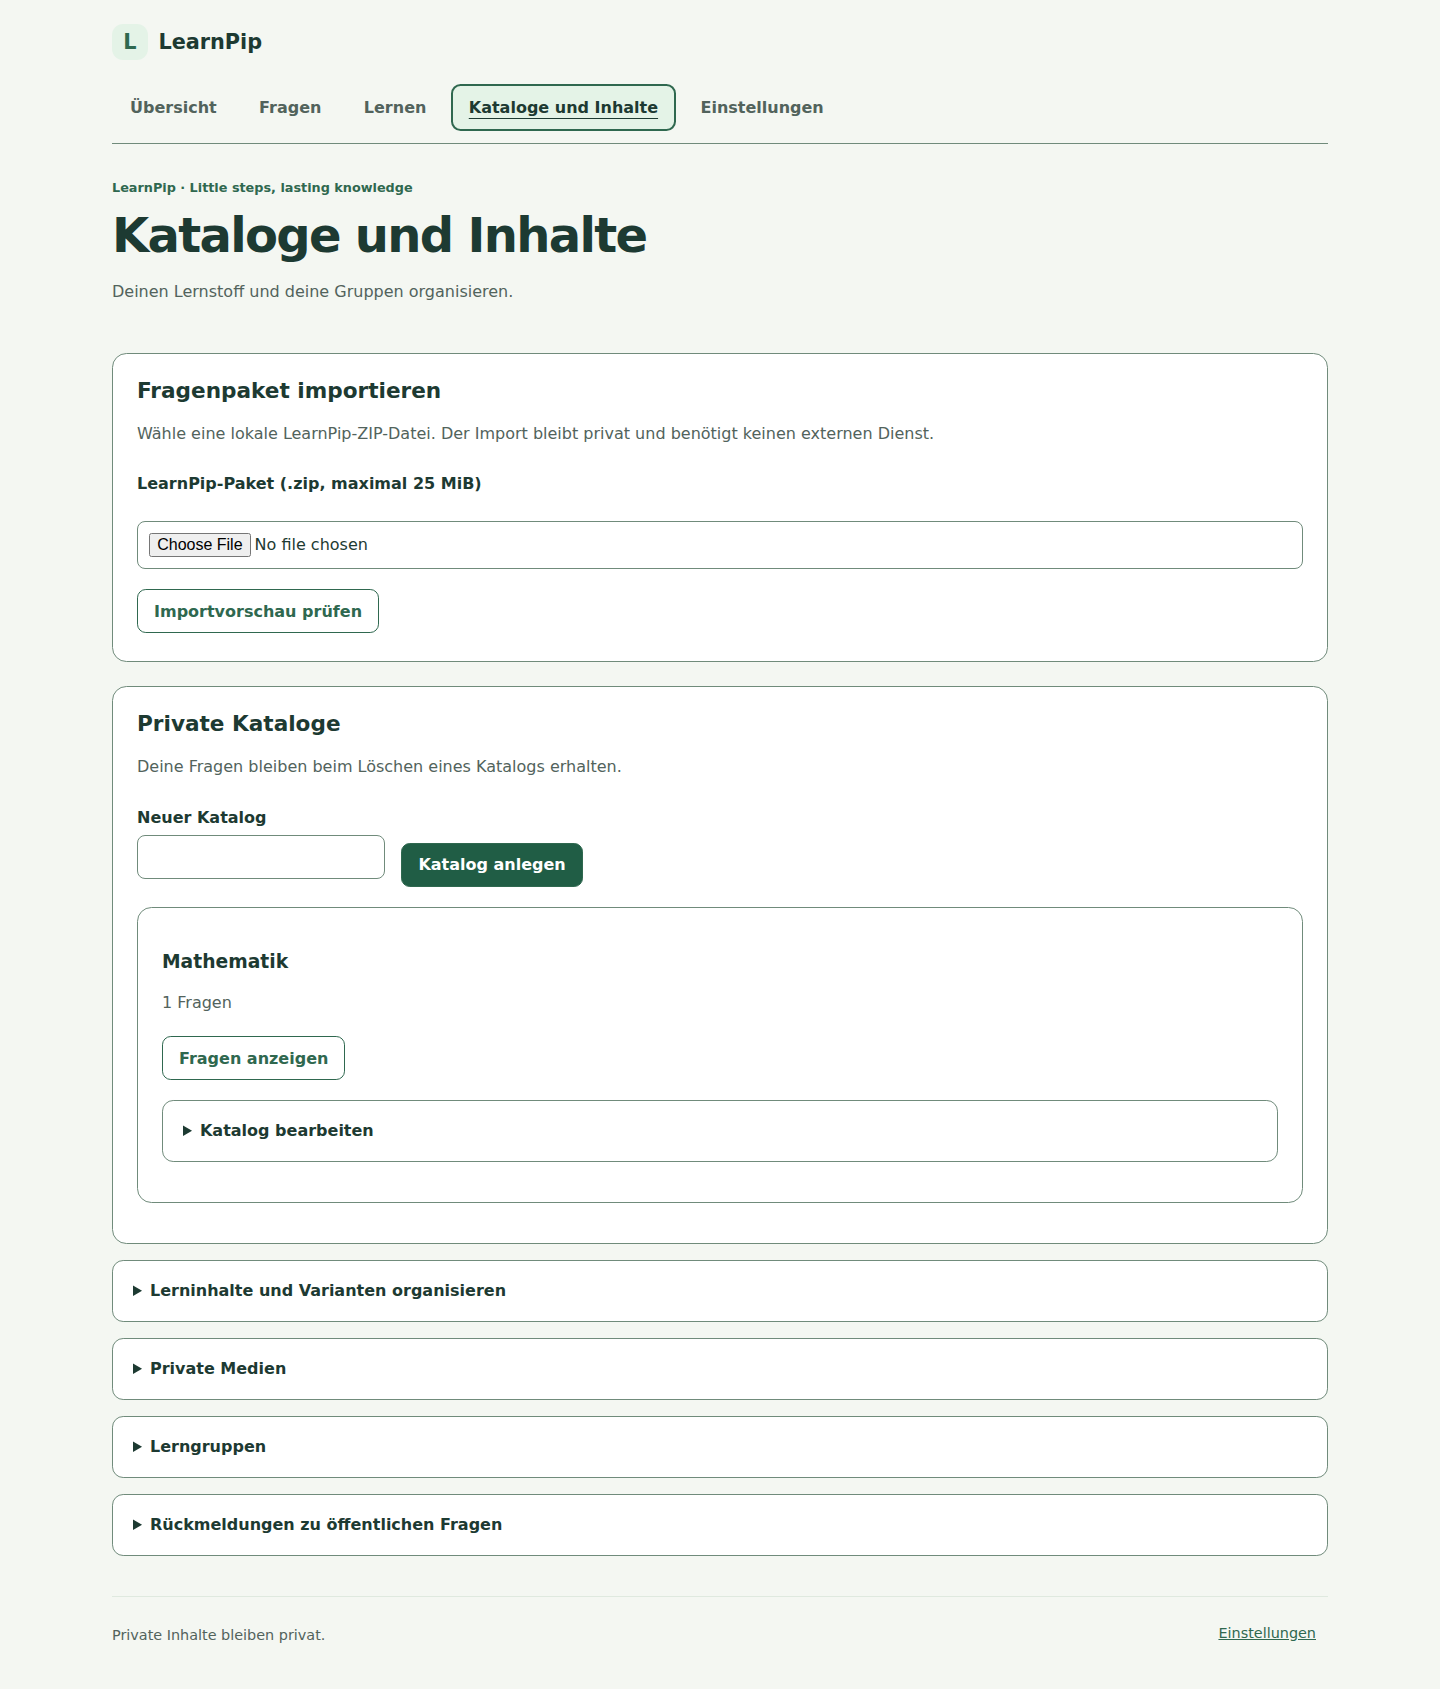
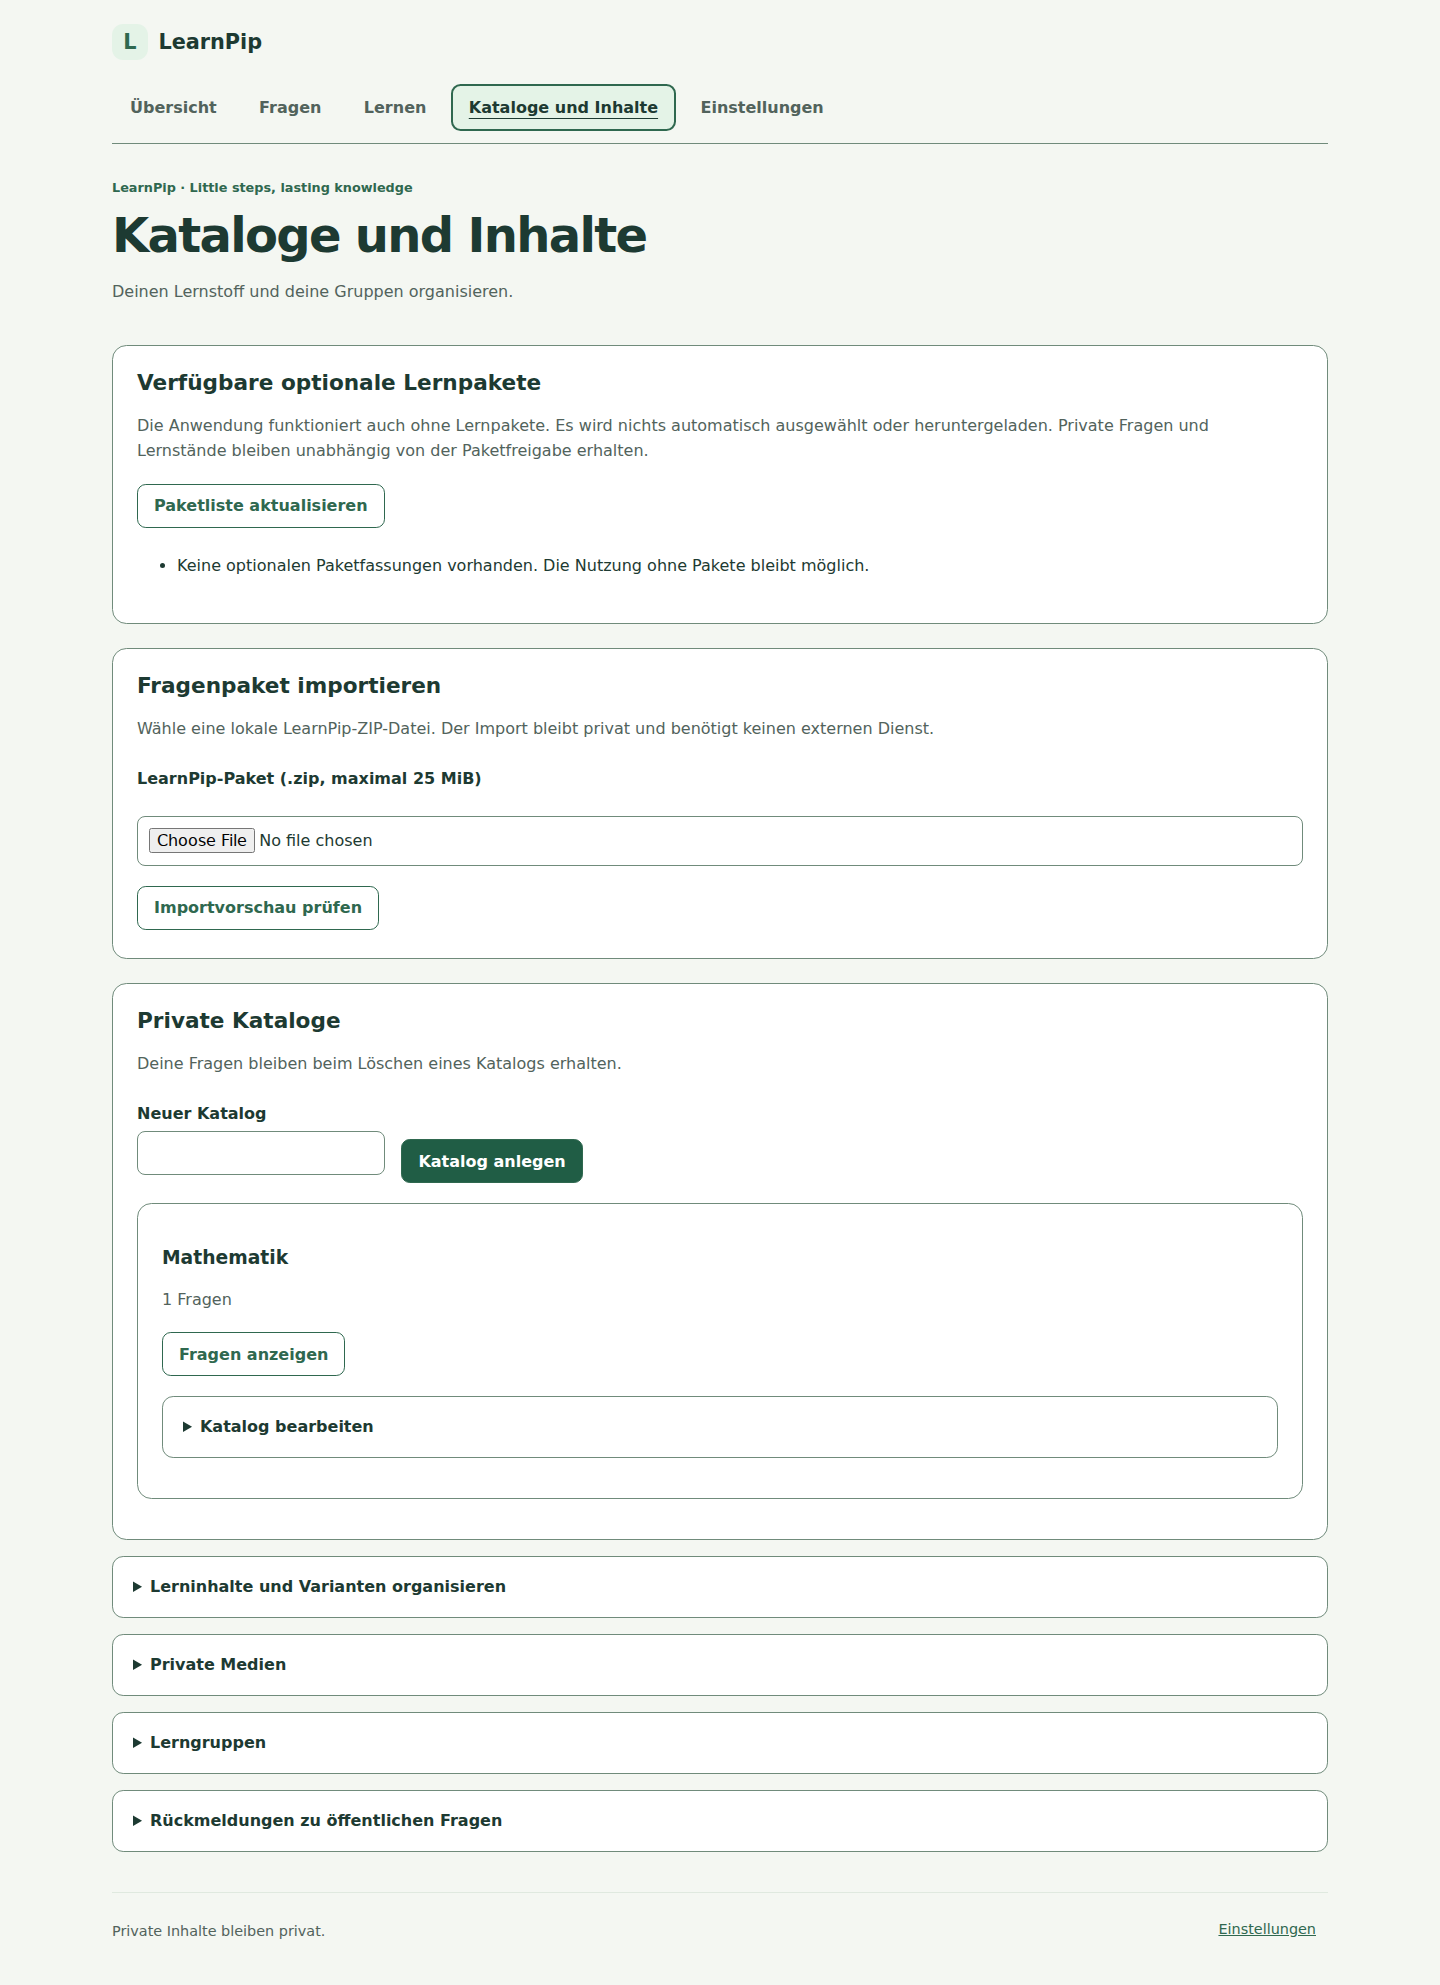
docs(catalogs): document offline setup and update UI previews

diff --git a/tests/ops/install-release-smoke.py b/tests/ops/install-release-smoke.py
@@ -35,6 +35,10 @@ echo "docker $*" >> "$MOCK_LOG"
 if [[ "$*" == 'info --format '* ]]; then
   if [[ "${MOCK_ROOTFUL:-}" == 1 ]]; then echo '[]'; else echo '["name=rootless"]'; fi
 fi
+if [[ "$*" == *'--preview-instance-package'* || "$*" == *'--install-instance-package'* ]]; then
+  cat >/dev/null
+  exit 0
+fi
 if [[ "$*" == *'initialize-admin'* ]]; then
   read -r username
   read -r password
@@ -146,6 +150,15 @@ if [[ "$*" == *'run --rm migrate'* && "${MOCK_FAIL_MIGRATE:-}" == 1 ]]; then exi
     assert (target / 'current').resolve() == target / 'releases/v1.0.1'
     run('prepare', directory=work / 'prerelease', extra={'MOCK_PRERELEASE': '1'}, success=False)
     run('prepare', '--version', '../evil', directory=work / 'invalid', success=False)
+    package = work / 'synthetic.zip'
+    package.write_bytes(b'synthetic package fixture')
+    optional = work / 'optional-packages'
+    run('install', '--domain', 'learn.test.invalid', '--internal', '--yes', '--catalog-package', str(package), directory=optional)
+    assert (optional / 'current').exists()
+    commands = log.read_text()
+    assert commands.index('--preview-instance-package') < commands.index('--install-instance-package')
+    run('update', '--catalog-package', str(package), '--yes', directory=optional, success=False)
+    run('install', '--catalog-package', str(work / 'missing.zip'), '--yes', directory=work / 'missing-package', success=False)
     malicious = work / 'malicious.tar.gz'
     with tarfile.open(malicious, 'w:gz') as archive:
         entry = tarfile.TarInfo('../escaped')

diff --git a/docs/CATALOG-INTERCHANGE.md b/docs/CATALOG-INTERCHANGE.md
@@ -75,7 +75,10 @@ Auch das Wurzelobjekt von `questions.json` darf im Entwurf 0.1.0 ausschließlich
 
 `scripts/select-catalog.py` stellt `select_from_file(datei, frage_ids)` bereit. Die Quelldatei wird vor jeder Auswahl vollständig validiert. Der Helfer übernimmt ausschließlich ausdrücklich gewählte Fragen in ihrer bisherigen Reihenfolge, behält deren Antwort- und Herkunftsangaben sowie die vollständigen Nachweisdateien und entfernt nicht mehr referenzierte Mediendateien. `scripts/write-catalog.py` erzeugt daraus ein neues geprüftes Paket mit aktualisierten Hashes. Leere oder unbekannte Frage-IDs werden zurückgewiesen, die Ursprungsdatei bleibt unverändert.
 
-Dies ist **noch kein Export aus Benutzerkonten oder der Datenbank**: Rollen- und Eigentumsprüfung, Auswahl nach Themen/Katalogen, Privatsphäre, ausdrückliche Lizenz- und Community-Freigabe sowie Metadaten zur neuen Katalogrevision sind vor einem produktiven Export gesondert umzusetzen (#115–#117). Insbesondere dürfen fremde oder private Inhalte niemals allein aufgrund ihrer ID auswählbar werden. Der technische Helfer ist keine Berechtigungsgrenze.
+Der technische JSON-Helfer ist keine Berechtigungsgrenze. Der Datenbankexport
+prüft Eigentum und aktive Konten API-seitig; Auswahl, Vorschau und bestätigter
+Browserdownload stehen im Fragen-Arbeitsbereich bereit (siehe unten).
+
 
 ## Privater ZIP-Import in der Anwendung
 
@@ -164,12 +167,11 @@ gesamte Paket. Bereits bearbeitete oder gelöschte Quellfragen werden weder erse
 noch als zweite Kopie angelegt. Ein unverändertes bereits installiertes
 Originalpaket bleibt auch nach eigenen Änderungen idempotent.
 
-Grenzen: maximal 500 Fragen je Export, Auswahlübersicht bis 1000 eigenen Fragen,
-ZIP bis 25 MiB und weiterhin die bestehenden Bildgrenzen. Es gibt keinen
-verlustbehafteten Teilexport und keine automatische Herabstufung auf 0.1.0.
-Kontrollierte Änderungen an importierten Fragen, instanzweite Paketverwaltung,
-Community-Veröffentlichung und stabile Formatmigrationen sind weitere Schritte.
-Die Issues #115, #116 und #118 bleiben bis zur vollständigen Abnahme offen.
+Grenzen: maximal 10000 Fragen je Export und in der Auswahlübersicht, ZIP bis
+25 MiB; die bestehenden Bildgrenzen gelten weiter. Überschreitungen werden vor
+dem Import abgewiesen. Es gibt keinen verlustbehafteten Teilexport und keine
+automatische Herabstufung auf 0.1.0. Stabile Formatmigrationen und die umfassende
+Moderationsmatrix bleiben die getrennten Anforderungen von #118 und #119.
 
 | API | Zweck |
 | --- | --- |
@@ -207,3 +209,87 @@ legt zwei frische unabhängige Datenbanken an, erstellt fünf Fragen auf A, übe
 eine Teilmenge auf B, prüft Reimport und überlappende Auswahl ohne Duplikate sowie
 Bildreihenfolge, Quellen-IDs, private Sichtbarkeit und fehlende Lernstände.
 Dies ist keine Freigabe eines stabilen Schemas und keine stabile Major-Migration.
+
+## Optionale Instanzpakete und bestätigte Updates
+
+Unter **Administration > Optionale Lernpakete** lokale ZIP-Datei auswählen,
+**Paketfassung und Änderungen prüfen**, Originaltexte unter LICENSES.md, NOTICE
+und ATTRIBUTION lesen und Bereitstellung ausdrücklich bestätigen. Keine Auswahl
+und kein Download erfolgt automatisch. Das Paket wird Lernenden als optionale
+private Übernahme angeboten; die Bereitstellung veröffentlicht keine Kontodaten.
+Titel, Beschreibung/Zielgruppe, Sprache, Version, Quellenstand, Fragenzahl sowie
+Archivgröße und entpackter Speicherbedarf werden vor Bestätigung angezeigt.
+
+Versionen sind unveränderlich: geänderte Inhalte benötigen eine neue
+`catalog_version`. Updates deaktivieren das vorherige Angebot, verändern jedoch
+keine privaten Kopien, persönlichen Bearbeitungen oder historischen Lernfassungen.
+Deaktivierung ist umkehrbar. **Endgültig entfernen** löscht nur die Instanzdatei;
+private Kopien und Lernstände bleiben bestehen. Ein Audit-Nachweis verhindert,
+dass eine entfernte Version später mit anderem Inhalt wiederverwendet wird.
+Administratoren benötigen eine frische Anmeldung. Normale Benutzer können keine
+Instanzpakete verwalten.
+
+Bereits privat importierte Pakete können nach neuer Vorschau ausdrücklich
+aktualisiert werden. ZIP-Prüfsumme und bisheriger Paketfingerabdruck müssen zur
+Bestätigung passen. Unbearbeitete Fragen behalten ihre lokale Kennung und erhalten
+eine neue unveränderliche Fassung. Entfernte Quellfragen, frühere ZIPs und alte
+Fassungen bleiben als Nachweis erhalten. Persönliche Änderungen oder Löschungen
+sperren den gesamten Wechsel; es findet kein stilles Überschreiben statt.
+Neue Importe dürfen einen eigenen bestehenden privaten Zielkatalog verwenden.
+
+### Offline-Setup und geprüfte Online-Quellen
+
+`./scripts/install-release.sh install --catalog-package /absoluter/pfad/paket.zip`
+prüft das optionale lokale Paket beim erstmaligen Setup und zeigt die Original-
+Lizenztexte vor gesonderter Bestätigung. Die Option ist wiederholbar. Ohne diese
+Option funktioniert Installation unverändert. `--yes` bestätigt auch ausdrücklich
+angegebene Pakete; Dateien zuvor prüfen. Spätere Nachinstallation und Updates
+laufen über Administration. Pakete sind externe ZIP-Artefakte: keine Repo-,
+GitHub-, Cloudkonto- oder Internetpflicht und keine Inhalte im App-Image.
+
+Ein Betreiber kann eine neutrale HTTPS-Quelle mit
+`LEARNPIP_CATALOG_SOURCE_TITLE`, `LEARNPIP_CATALOG_SOURCE_URL` und dem unabhängig
+geprüften `LEARNPIP_CATALOG_SOURCE_SHA256` konfigurieren. In Administration startet
+ein ausdrücklicher Klick den Download; SHA-256, Größenlimit, Schema und Medien
+werden geprüft. Weiterleitungen werden abgewiesen. Fehlschläge verändern die
+Paketverwaltung nicht. Ohne Quellenkonfiguration gibt es keinen externen Zugriff.
+Weitere Quellen sind über `CatalogPackages:Sources` mit Title/Url/Sha256 möglich.
+Ein Prüfsummenvergleich beweist Integrität gegenüber dem vertrauten Sollwert,
+keine Urheberrechte oder Echtheit eines unbekannten Herausgebers.
+
+## Quellen, Rechte und Community-Bericht
+
+Unter **Fragen > Quellen und Rechte je Frage und Bild** tatsächliche Lizenz,
+Rechteinhaber, Attribution, Herkunft, Quellenrevision und Bearbeitungsvermerk je
+Text und einzeln je Bild erfassen. Die Bestätigung wird bei Feldänderungen
+zurückgesetzt. Nachweise sind an die gespeicherte Inhaltsfassung einschließlich
+Bildbytes und Alternativtexten gebunden. Nach Inhaltänderungen erneut prüfen;
+ein Export mit veralteten Nachweisen wird verhindert. Importierte Originale
+behalten ihre vollständigen Originalnachweise. Bearbeitete Importfragen benötigen
+explizite Bearbeitungsnachweise, behalten die Quelllizenz und führen ursprüngliche
+Attribution/Quellrevision zusätzlich mit. Keine Lizenz wird aus einem Thema erzeugt.
+
+Der Export zeigt einen **Rechtebericht für offene Weitergabe**. Text und jedes Bild
+werden separat geprüft; eine offene Textlizenz verdeckt keine private Bildlizenz.
+Wikipedia-Bearbeitungen benötigen CC BY-SA 4.0, Attribution, tatsächliche Revision
+und Bearbeitungsvermerk; amtliche Originalquellen DL-DE/BY-2.0 werden getrennt
+behandelt. Gemischte Quellen müssen im Bearbeitungs- und Attributionsnachweis
+abgegrenzt sein. Der technische Bericht ersetzt keine Prüfung tatsächlicher Rechte
+oder komplexer Lizenzkompatibilität. Unbekannte/private Lizenzen sperren den
+Community-Zweck, verhindern jedoch keinen berechtigten privaten ZIP-Download.
+
+`LEARNPIP_COMMUNITY_EXPORT_ENABLED=false` ist die Standardeinstellung. Erst nach
+bewusster administrativer Aktivierung und vollständigen offenen Einzelnachweisen
+kann **Paket für einen Community-Vorschlag** gewählt werden. Eigene Originale dürfen
+bewusst etwa CC BY-SA 4.0 erhalten; zuerst die gespeicherte Frage und ihre Nachweise
+entsprechend ändern. Eine zusätzliche Bestätigung erklärt offene Weitergabe und
+Unwiderrufbarkeit erteilter offener Lizenzen. Dies erzeugt nur einen lokalen ZIP-
+Download: kein Upload, kein Versand und keine automatische Veröffentlichung.
+LICENSES.md, NOTICE und ATTRIBUTION samt Einzellizenzen werden mitgeführt.
+
+Prüfungen: Golden-ZIPs 0.1.0/0.2.0, Schema/Prüfsummen, Zwei-Datenbank-Roundtrip mit
+fünf Fragen und Bild/Teilauswahl/Reimport, Rechte- und Admin-Grenzen, bestätigte
+Updates, historische Fassungen, Installationsablauf mit/ohne optionale Auswahl
+sowie Browserprüfungen einschließlich Smartphone und automatisierter Accessibility.
+Ein manueller Test mit zwei vollständigen VM-Installationen und echten Hilfsmitteln
+ist damit nicht behauptet; dafür den beschriebenen A/B-Ablauf als Abnahme nutzen.

diff --git a/docs/UI-PREVIEW.md b/docs/UI-PREVIEW.md
@@ -15,11 +15,11 @@ Darunter wird der persönliche Lernfortschritt zusammengefasst.
 
 Fragen lassen sich suchen und nach Katalog oder Fassungsstatus filtern.
 Der Editor zeigt die ausgewählte Frage und ihre Antwortmöglichkeiten.
-Darunter liegen die aufklappbaren Bereiche für lokale Exportauswahl und Import.
+Darunter liegen die aufklappbaren Bereiche für Quellen-/Rechteangaben, lokale Exportauswahl und Import.
 Der Export bietet kombinierte Filter, eine Lizenzvorschau und einen bestätigten
 ZIP-Download ohne öffentliche Veröffentlichung.
 
-![Frageneditor mit der Mathematikfrage „Was ergibt 2 + 2?“, den Antworten Vier und Fünf sowie Such- und Filterfeldern für eigene Fragen und aufklappbaren Bereichen für Export und Import.](screenshots/question-editor.png)
+![Frageneditor mit der Mathematikfrage „Was ergibt 2 + 2?“, den Antworten Vier und Fünf sowie Such- und Filterfeldern für eigene Fragen und aufklappbaren Bereichen für Quellen- und Rechteangaben, Export und Import.](screenshots/question-editor.png)
 
 ## Kataloge und Inhalte
 
@@ -27,7 +27,7 @@ Private Kataloge bündeln eigene Fragen. Von hier aus gelangt man direkt zur
 gefilterten Fragenliste. Lokale ZIP-Fragenpakete lassen sich nach einer Vorschau
 und ausdrücklicher Bestätigung in einen neuen privaten Katalog importieren.
 
-![Katalogbereich im hellen Design mit Dateiauswahl und Vorschau-Schaltfläche für den privaten ZIP-Import sowie dem Katalog Mathematik, seiner Fragenanzahl und dem Link zur Fragenliste.](screenshots/catalogs.png)
+![Katalogbereich im hellen Design mit optionaler Instanzpaketliste ohne automatische Auswahl, Dateiauswahl und Vorschau-Schaltfläche für den privaten ZIP-Import sowie dem Katalog Mathematik, seiner Fragenanzahl und dem Link zur Fragenliste.](screenshots/catalogs.png)
 
 ## Lernen auf dem Smartphone
 

diff --git a/docs/ADMINISTRATION.md b/docs/ADMINISTRATION.md
@@ -58,3 +58,11 @@ Administrierende sehen installierte Version, neuestes geprüftes stabiles Releas
 - `POST /api/v1/admin/updates/install` mit `{"version":"vX.Y.Z"}`: verifizierten Auftrag einreihen.
 
 **Wichtig:** Der API-Container selbst führt weder Host-Kommandos noch Docker-Aktionen aus. Der gesonderte, unprivilegierte Update-Operator muss auf dem Host konfiguriert und gestartet sein; ohne ihn ist kein Web-Update betriebsbereit. Vor dem Update sind ein funktionierendes Backup, ausreichend Speicher und Rootless Docker erforderlich. Ein erfolgreicher Download allein bedeutet noch kein erfolgreiches Update. Architektur, Inbetriebnahme und Fehlerbehandlung stehen unter [Admin-Web-Updates](admin-web-updates.md); die allgemeinen Betriebsabläufe unter [Betrieb](OPERATIONS.md).
+
+## Optionale Lernpakete
+
+Paketverwaltung erfordert ein Administratorkonto mit frischer Anmeldung. Lokale
+ZIPs und konfigurierte neutrale HTTPS-Quellen sind optional. Jede Bereitstellung,
+Deaktivierung und Entfernung verlangt gesonderte Bestätigung und wird auditiert.
+Private Kopien und Lernstände bleiben erhalten.
+[Anleitung mit Lizenzprüfung und Community-Sperre](CATALOG-INTERCHANGE.md#optionale-instanzpakete-und-bestätigte-updates).

diff --git a/docs/RELEASE-INSTALL.md b/docs/RELEASE-INSTALL.md
@@ -118,3 +118,11 @@ unverändert übernehmen; insbesondere keine neuen Datenbank- oder Verschlüssel
 Danach auf die Image-basierte Compose-Datei wechseln, `LEARNPIP_VERSION` setzen, `docker compose pull`
 ausführen, migrieren und erst anschließend API/Worker/Web neu starten. Die benannten PostgreSQL- und
 Caddy-Volumes bleiben durch den festen Compose-Projektnamen `learnpip` erhalten.
+
+## Optionale Lernpakete
+
+Beim erstmaligen Setup kann `--catalog-package /absoluter/pfad/paket.zip` mehrfach
+angegeben werden. Standardmäßig wird kein Paket ausgewählt. Vorschau und
+Lizenzbestätigung erfolgen vor Bereitstellung; `--yes` bestätigt ausdrücklich
+angegebene Dateien mit. Nachinstallation, Updates, Deaktivierung und Entfernung
+erfolgen in Administration. [Paketverwaltung und Quellenprüfung](CATALOG-INTERCHANGE.md#optionale-instanzpakete-und-bestätigte-updates).
